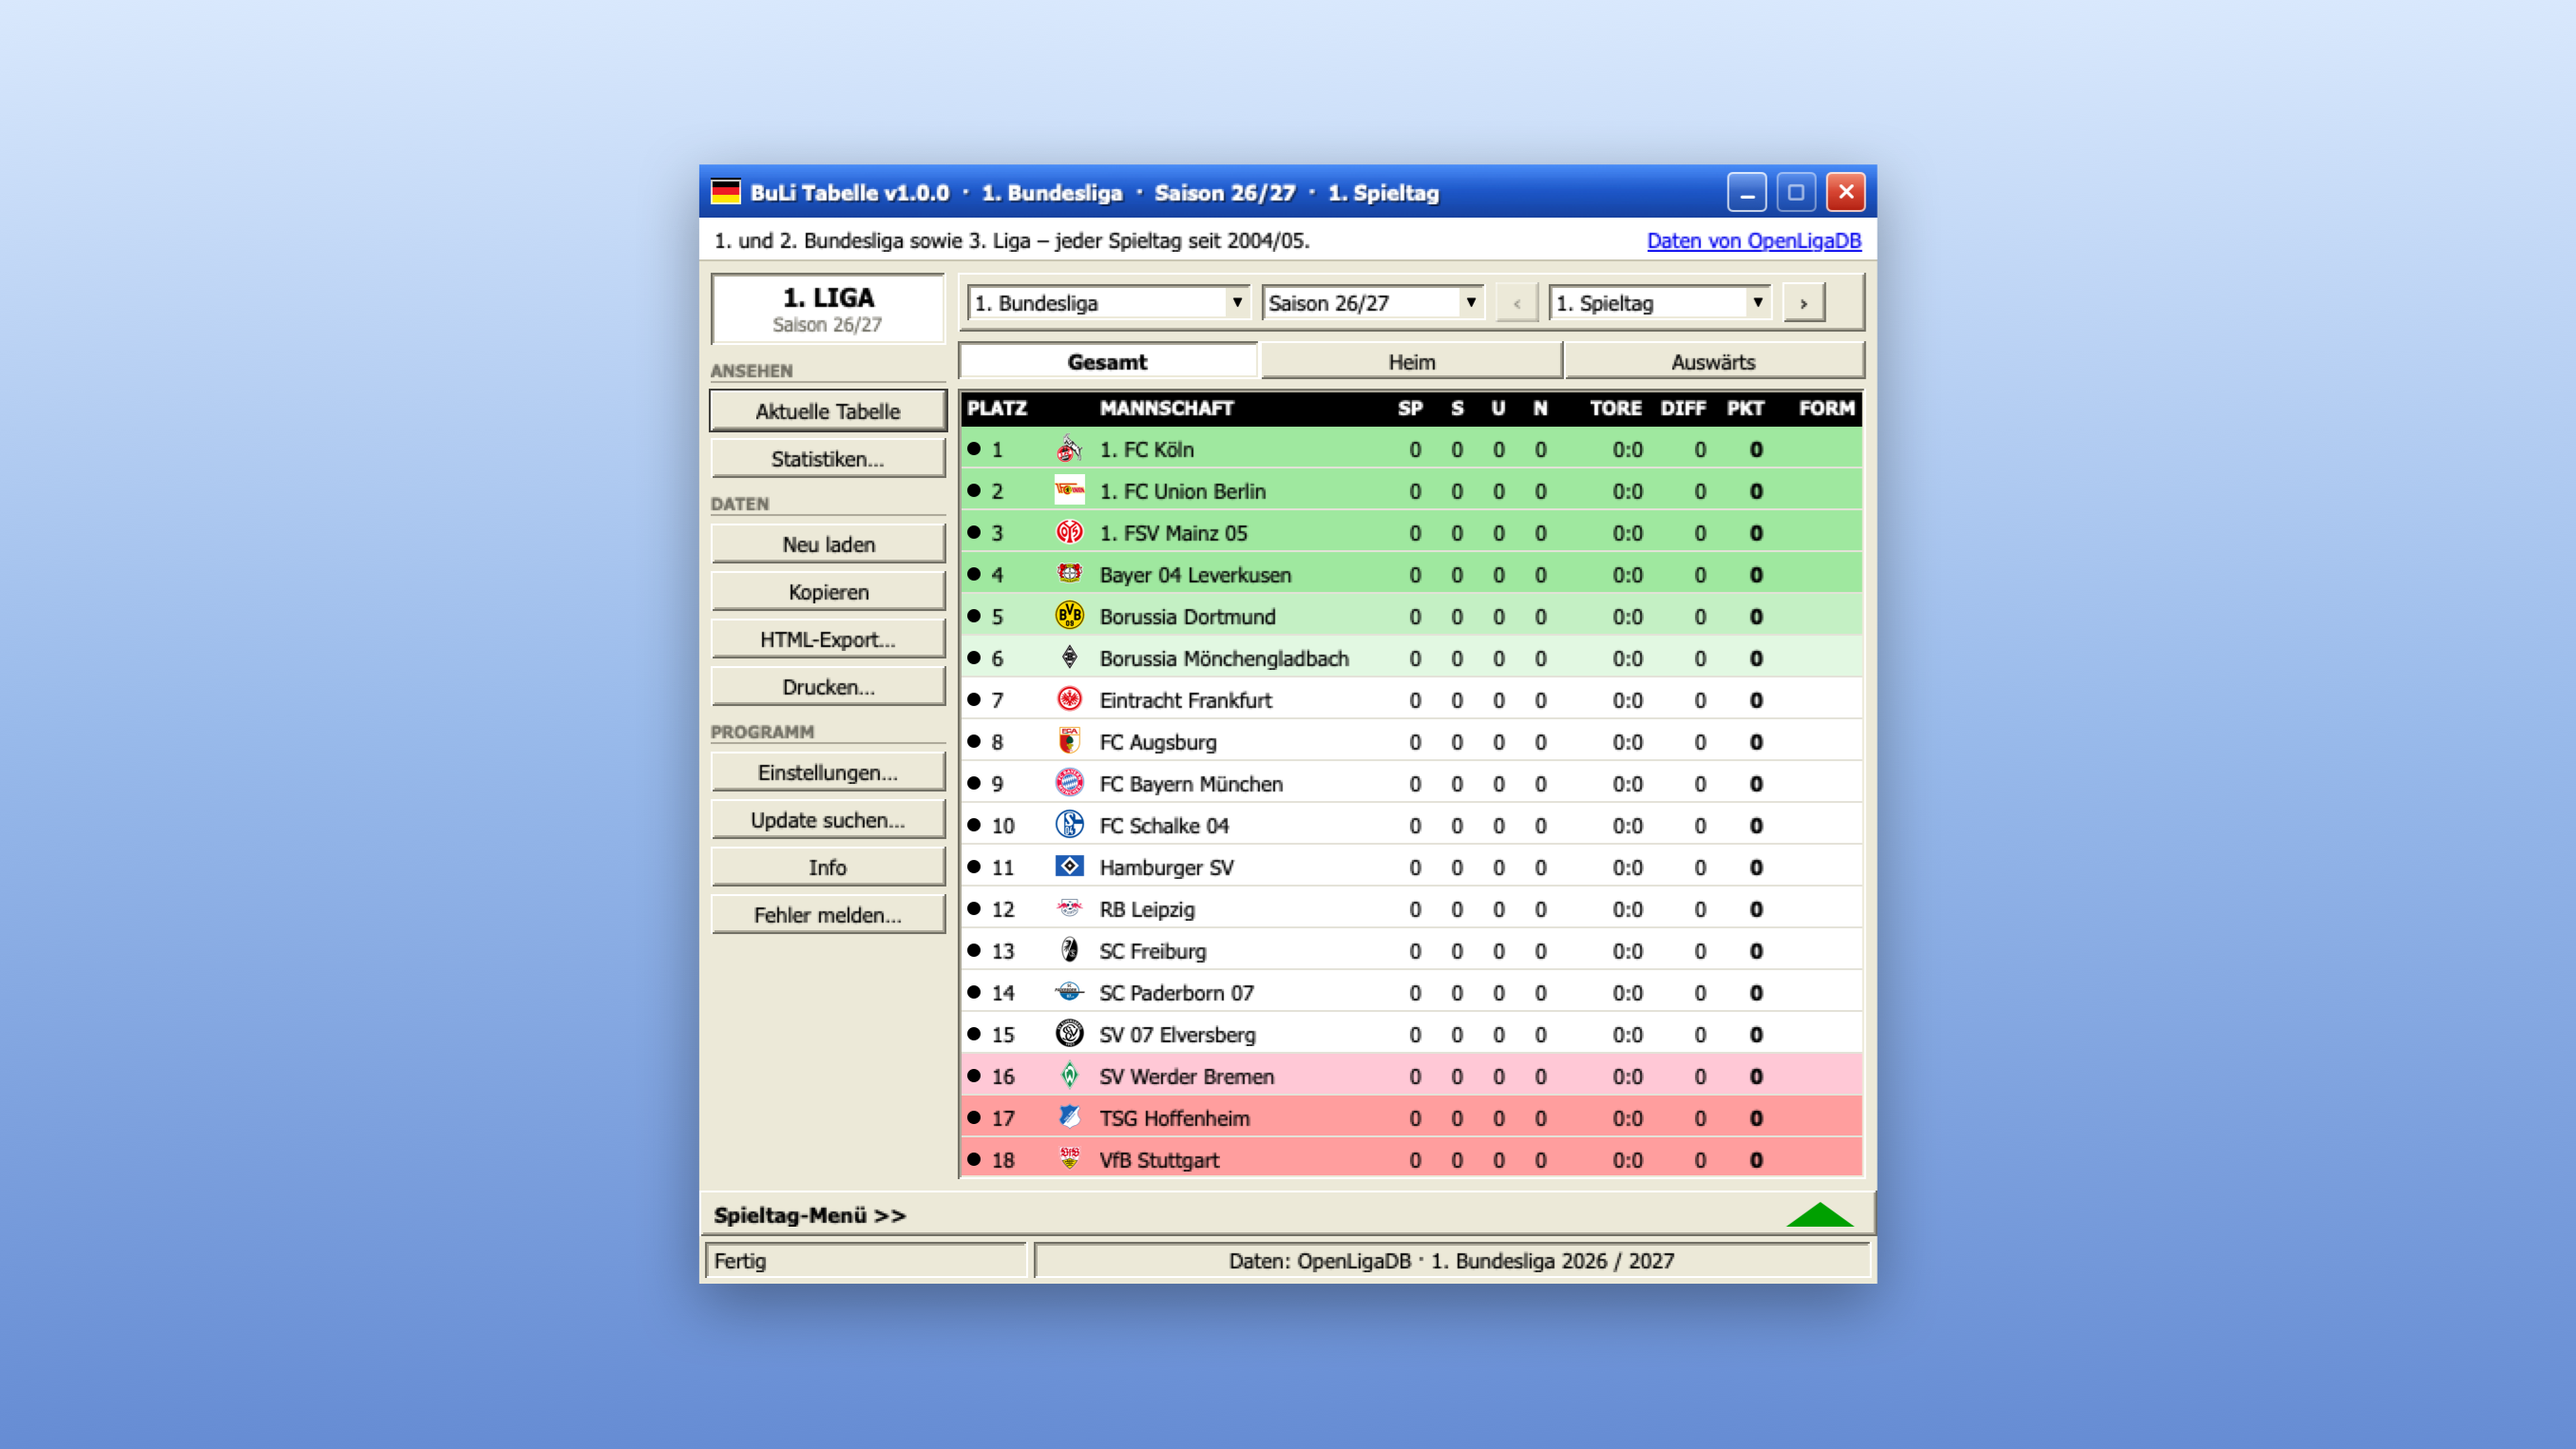
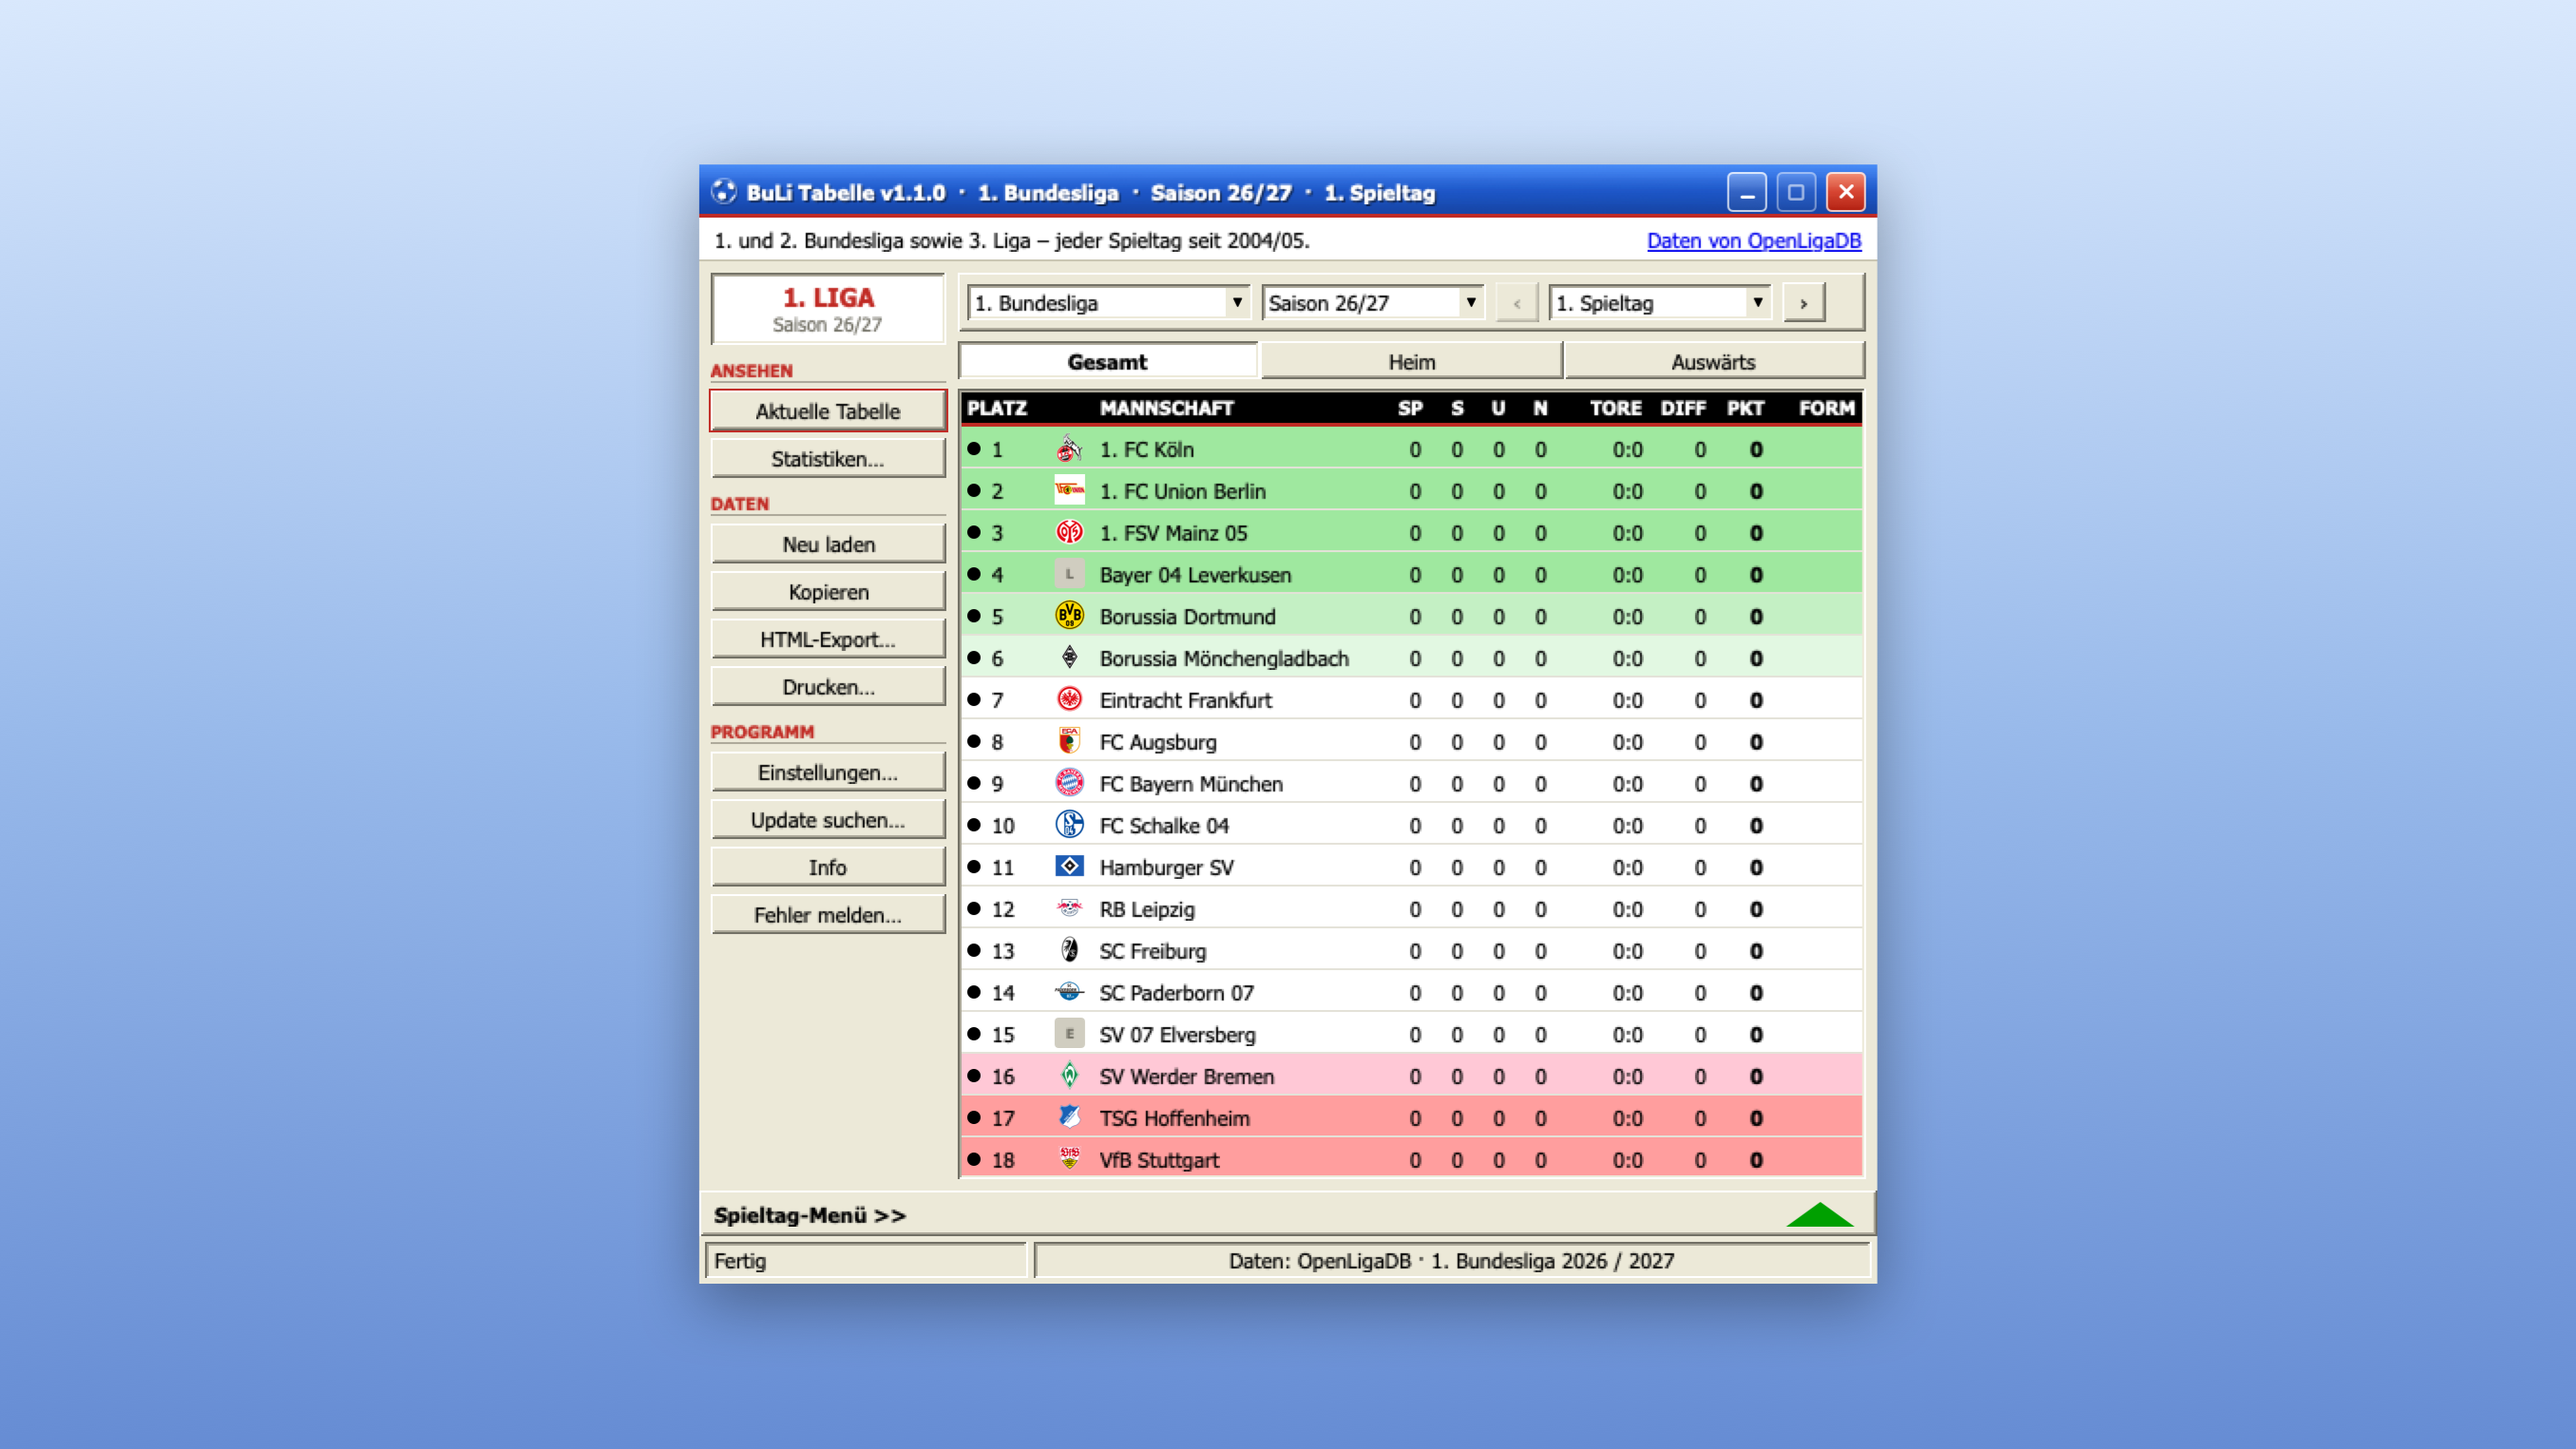
chore(release): Appcast + Downloadseite für v1.1.0 [skip ci]

diff --git a/docs/index.html b/docs/index.html
@@ -169,7 +169,7 @@
 
   #changelog-body { white-space: pre-wrap; font-size: 11px; line-height: 1.5; margin: 0; max-height: 320px; overflow: auto; }
 </style>
-<script>window.__BULI_FALLBACK__ = {"version":"1.0.0","tag":"v1.0.0","zip":"https://github.com/dmnktoe/buli-tabelle/releases/download/v1.0.0/BuLiTabelle-1.0.0.zip","date":"2026-07-31"};</script>
+<script>window.__BULI_FALLBACK__ = {"version":"1.1.0","tag":"v1.1.0","zip":"https://github.com/dmnktoe/buli-tabelle/releases/download/v1.1.0/BuLiTabelle-1.1.0.zip","date":"2026-07-31"};</script>
 </head>
 <body>
 
